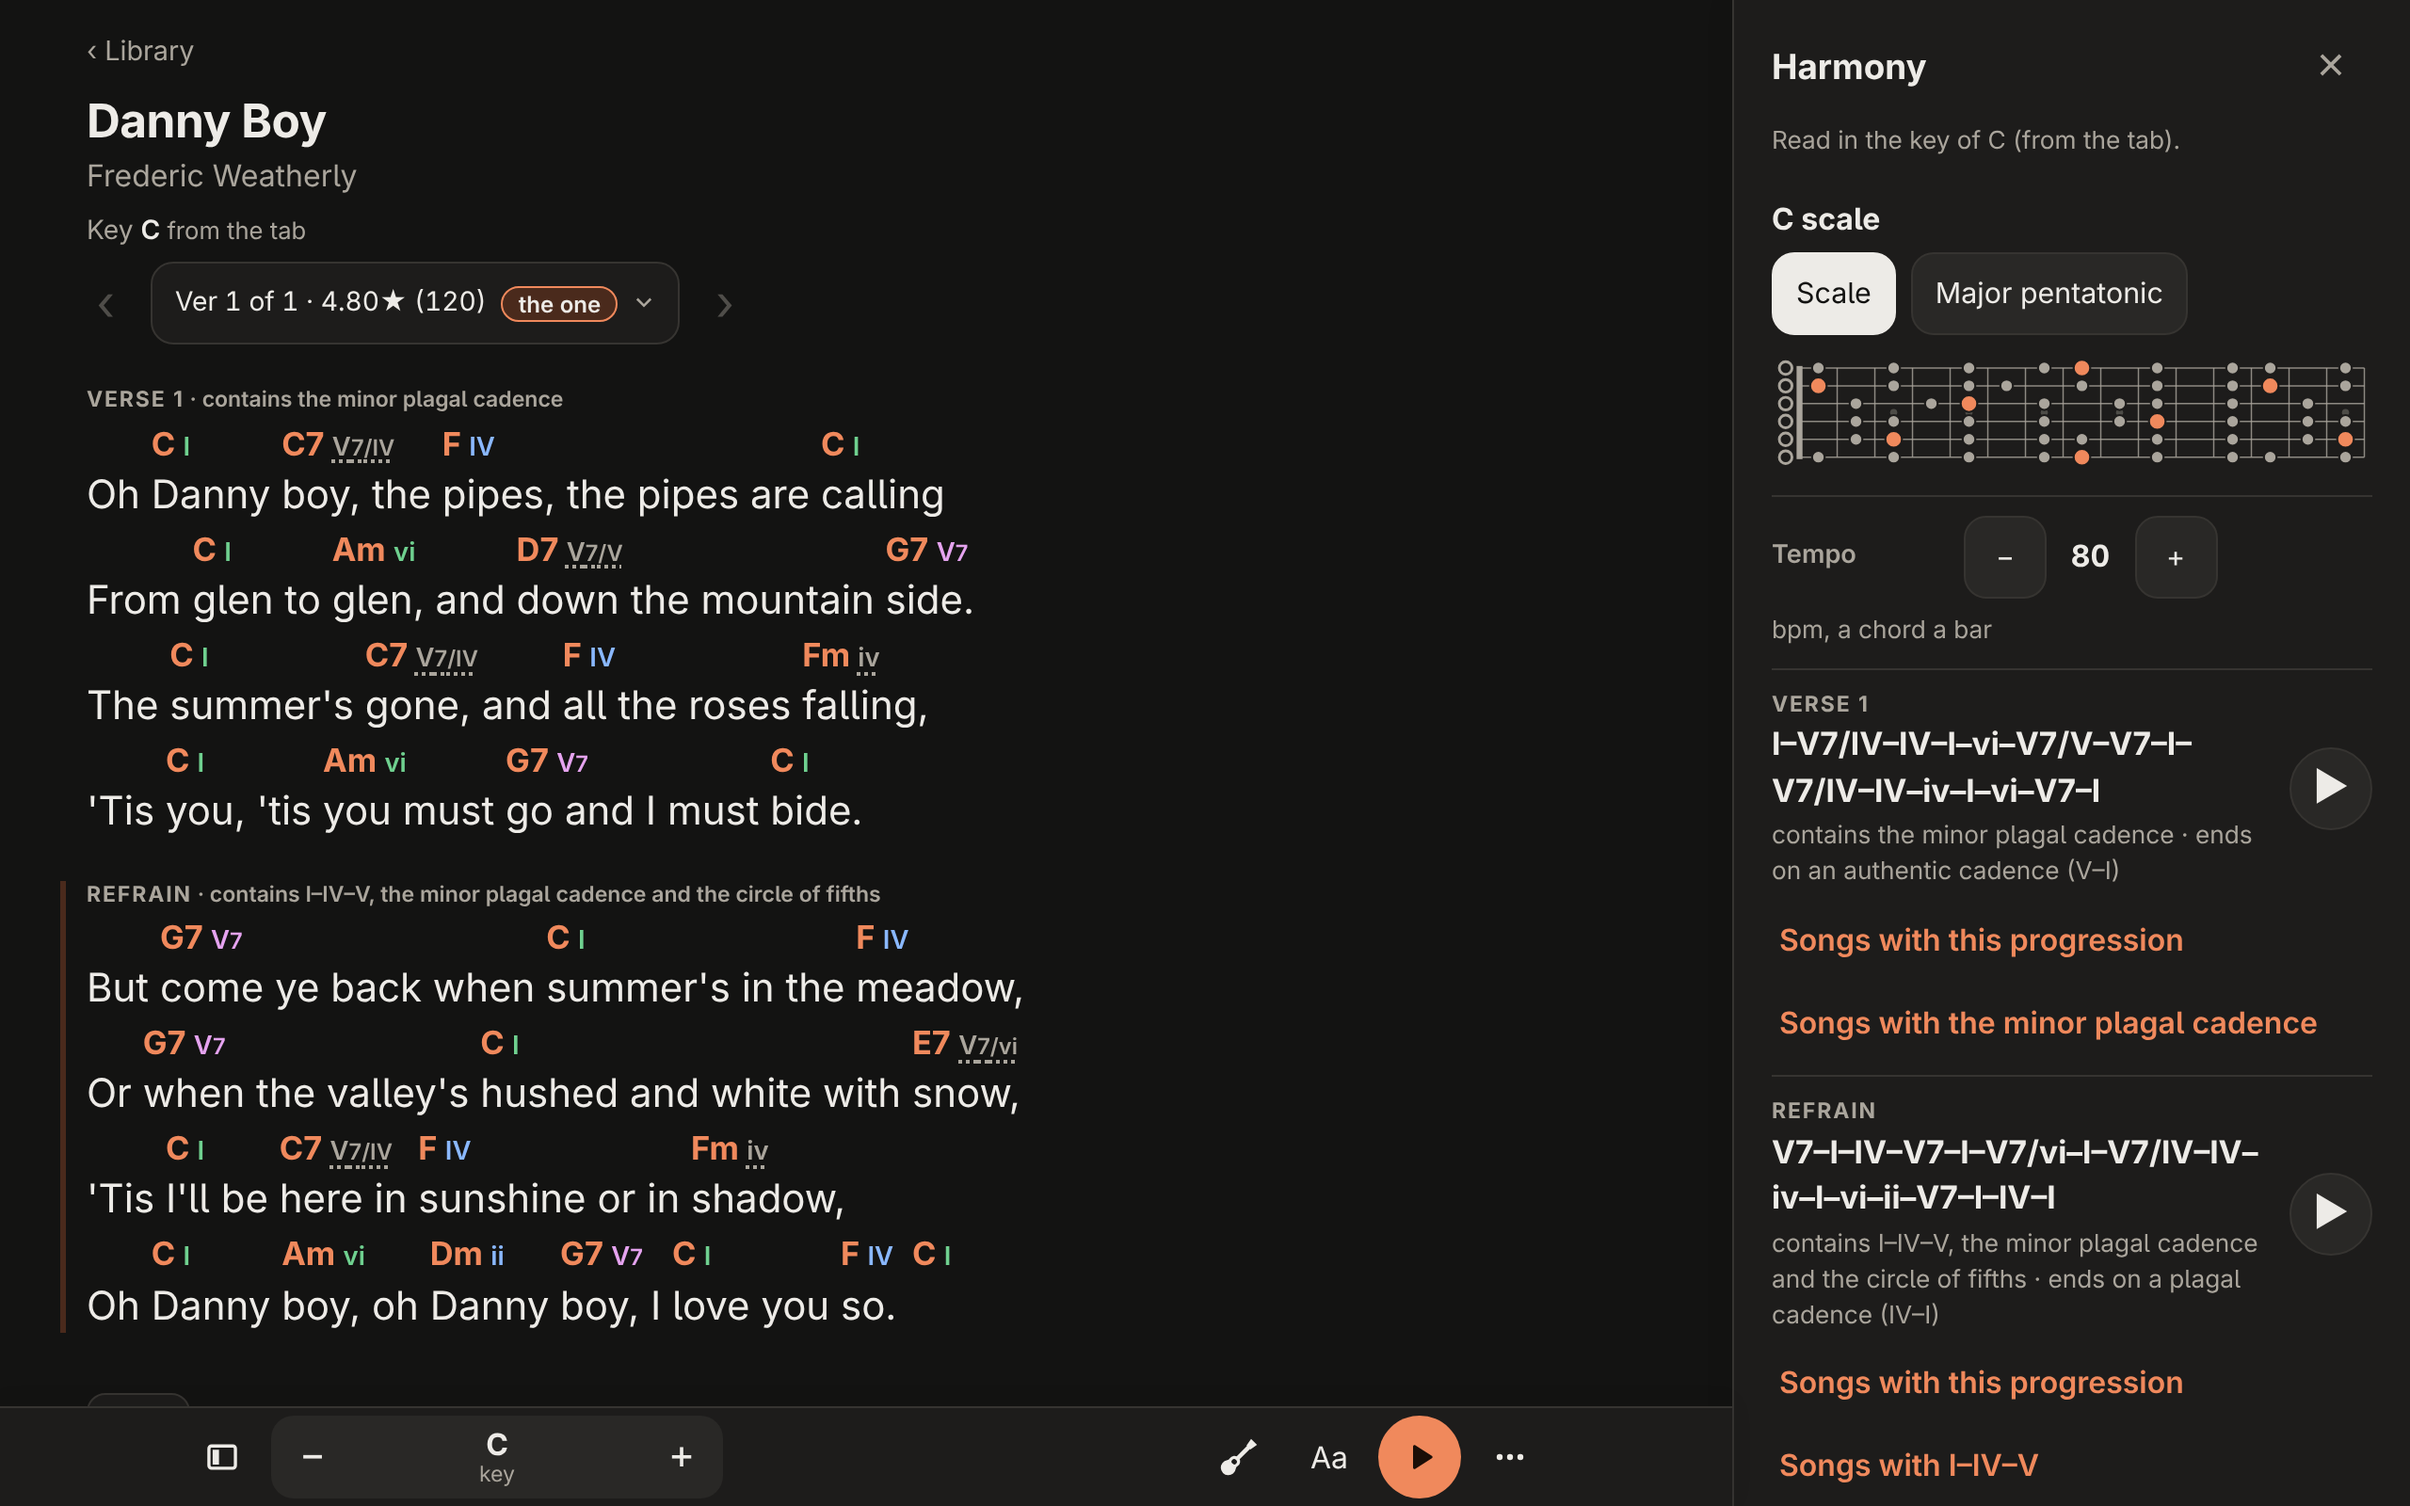
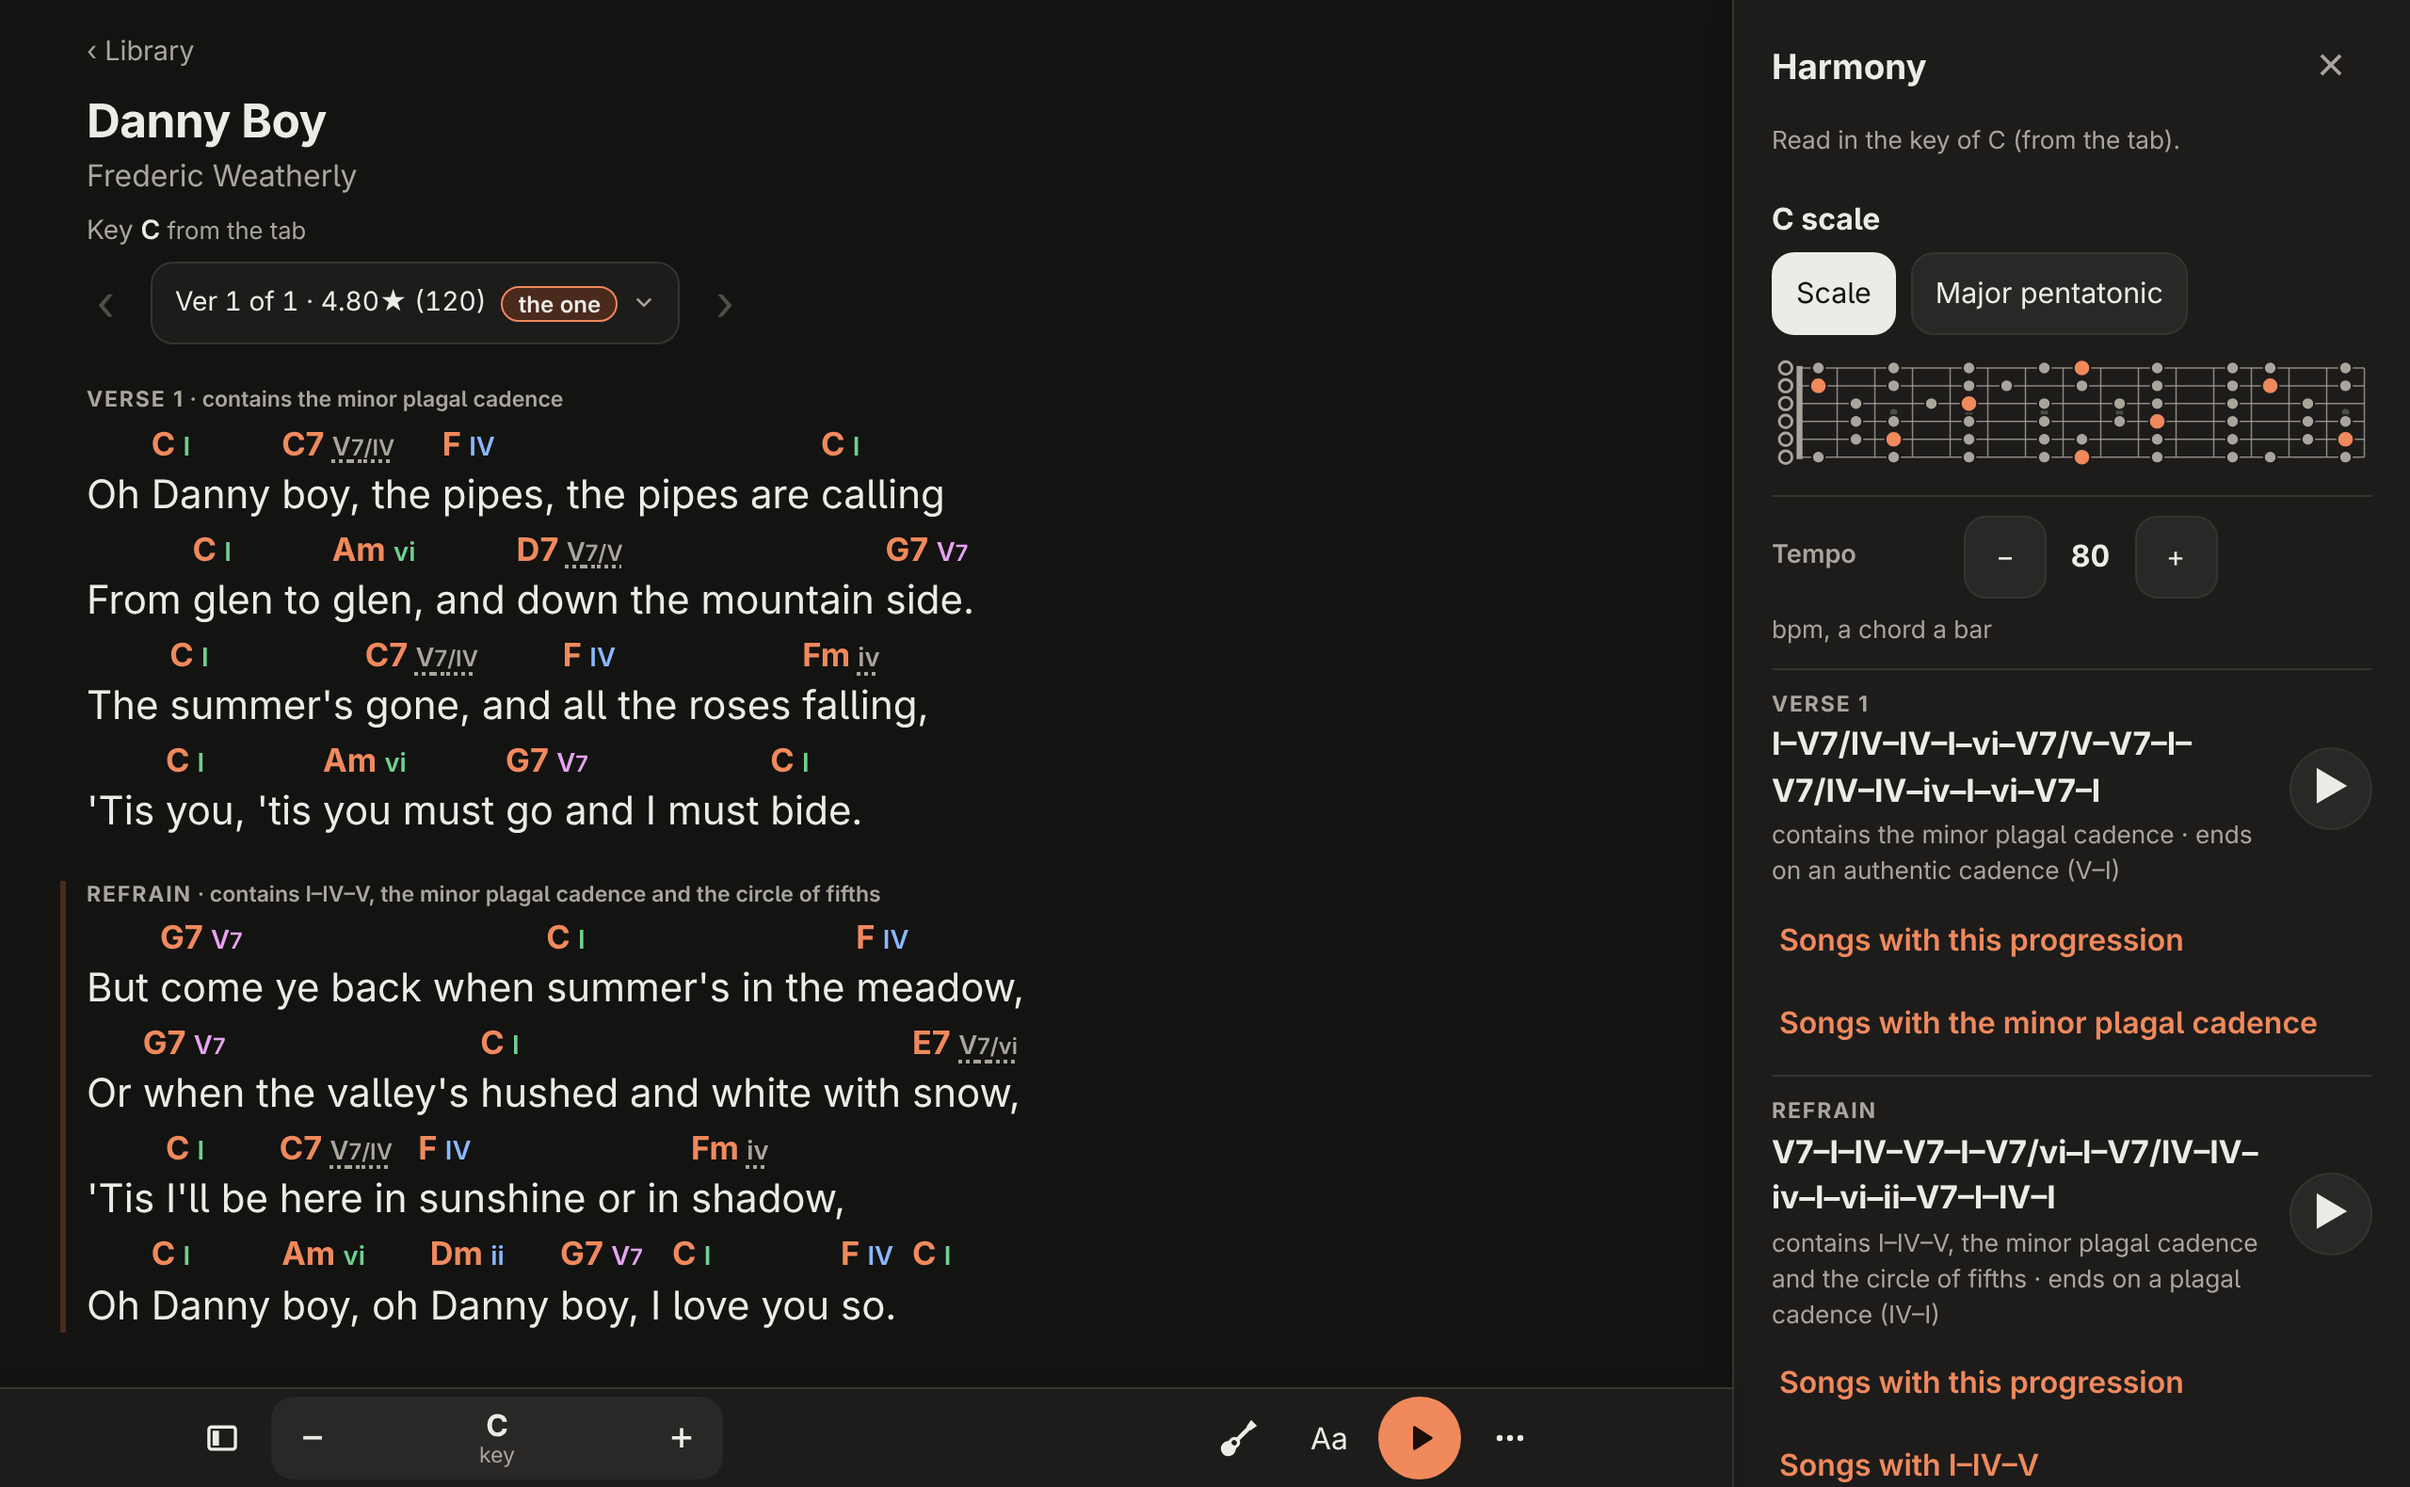
docs: a README with no sign-in, and screenshots taken the same every time
The README says caracole serve's page has no sign-in and belongs on a network you
trust, and names no token. Its politeness line says seconds apart (LRCLIB's pace is
1-2 s), and that YouTube is the one site whose robots.txt it goes against, within
its own budget and pauses and with a switch to turn it off. The quick start adds a
song any index files under its artist.

make.py takes every picture within the screen: captured beyond it, Chromium resized
the page, and the Songbooks tab redrew for its width, closing the key editor. It
blurs the Key menu before the picture, checks each shot's last wait still holds once
taken, and gives the Harmony panel a shorter screen, so no button shows above the bar.

diff --git a/docs/screenshots/make.py b/docs/screenshots/make.py
@@ -392,6 +392,7 @@ def serve(cfg, port: int = 0):
 # --- the pictures -----------------------------------------------------------------------------------------------
 
 DESKTOP = (1280, 800, False)  # width, height in CSS pixels, a phone's screen
+SHORTER = (1280, 790, False)  # the foot's PDF button under the bar, and the Harmony panel cut between two links
 PHONE = (390, 844, True)
 SETTLED = ("document.readyState === 'complete' && document.fonts.status === 'loaded'"
            " && document.getAnimations().every((a) => a.playState !== 'running')")
@@ -413,7 +414,8 @@ def below(selector: str, margin: int = 24) -> str:
 
 # Each picture: its file's name, its address on the server, the screen, then what is done before it is taken, in
 # order ("wait" an expression, "click" a selector, "type" text into the focused field, "js" an expression), and
-# its clip (JavaScript for [x, y, width, height] in CSS pixels; None: the screen whole).
+# its clip (JavaScript for [x, y, width, height] in CSS pixels, within the screen; None: the screen whole). The last
+# "wait" must still hold once the picture is taken, or the script stops: a picture that missed it is never written.
 SHOTS = (
     ("library", "", DESKTOP, (
         ("wait", "document.getElementById('q') !== null"),
@@ -430,7 +432,7 @@ SHOTS = (
         ("wait", "!document.getElementById('panel').hidden"),
         ("js", "document.activeElement.blur()"),
     ), None),
-    ("harmony", "Frederic%20Weatherly/Danny%20Boy/sheet.html#nm=both&necks=0", DESKTOP, (
+    ("harmony", "Frederic%20Weatherly/Danny%20Boy/sheet.html#nm=both&necks=0", SHORTER, (
         ("wait", "document.querySelector('#sheet .c') !== null"),
         ("click", "#more"),
         ("click", "#harmony-open"),
@@ -451,6 +453,7 @@ SHOTS = (
         ("wait", "document.querySelector('#songbooks button.plays.set') !== null"),
         ("js", "document.querySelector('#songbooks button.plays.set').id = 'chip'"),  # Amazing Grace, set in A
         ("click", "#chip"),  # its key, mode and capo, open
+        ("js", "document.activeElement.blur()"),  # no focus ring on its Key menu
         ("wait", "document.querySelector('#songbooks .set-line.editing select') !== null"),
     ), below("#songbooks article.book")),
     ("guitar-pro", "guitar?file=Traditional%2FGreensleeves%2Fguitar-1.gp", DESKTOP, (
@@ -488,8 +491,15 @@ def take(url: str, out: Path, profile: Path, cfg) -> list[Path]:
             if not b.wait(SETTLED, timeout=30):
                 sys.exit(f"{name}: the page never settled")
             x, y, w, h = b.js(clip) if clip else (0, 0, width, height)
-            shot = b.send("Page.captureScreenshot", format="png", captureBeyondViewport=clip is not None,
+            if x < 0 or y < 0 or x + w > width or y + h > height:
+                sys.exit(f"{name}: the clip {[x, y, w, h]} goes past the screen, {width} × {height}")
+            # Never beyond the screen: Chromium would resize it for the picture, and a page that redraws for its
+            # width (the Songbooks tab, closing the key editor) would come out in another state.
+            shot = b.send("Page.captureScreenshot", format="png", captureBeyondViewport=False,
                           clip={"x": x, "y": y, "width": w, "height": h, "scale": 1})
+            last = [what for do, what in steps if do == "wait"][-1]
+            if not b.js(last):
+                sys.exit(f"{name}: the page left {last} while its picture was taken")
         path = out / f"{name}.png"
         path.write_bytes(base64.b64decode(shot["data"]))
         written.append(path)

diff --git a/README.md b/README.md
@@ -45,26 +45,29 @@ The pictures show a demo library of public-domain songs, which
 
 ```sh
 nix shell github:Danielhp95/caracole            # x86_64-linux; or see docs/install.md
-caracole add "Traditional - Scarborough Fair"   # a line of ~/Tabs/wanted.txt
+caracole add "Oasis - Wonderwall"               # "Artist - Title": a line of ~/Tabs/wanted.txt
 caracole index build                            # once: Ultimate Guitar's sitemaps, about 10 minutes
 caracole run                                    # what the nightly run does, now
 caracole serve                                  # the library at http://127.0.0.1:8737/
 ```
 
 The library is the folder `~/Tabs`. No settings are needed to start; they go in
-`~/.config/caracole/caracole.toml`, and `caracole serve --address` with
-`--token-file` serves your network.
+`~/.config/caracole/caracole.toml`. `caracole serve --address` serves your network:
+the page has no sign-in, so keep it on a network you trust (your LAN or tailnet).
 
-- [docs/install.md](docs/install.md): NixOS, Ubuntu with or without Nix, and from source.
+- [docs/install.md](docs/install.md): installing it.
 - [docs/usage.md](docs/usage.md): every command, setting and file.
 - [docs/deploy.md](docs/deploy.md): running it on a server.
 
-caracole is gentle with the sites it reads: one request at a time, 10 to 20
-seconds apart at night, within a small budget, never a page robots.txt closes,
-and a day's rest when a site pushes back ([how](docs/usage.md#caracole-run)). The one exception is
-YouTube, which only the auto-chords package uses, for the audio of songs nobody
-has charted ([why](docs/usage.md#audio-from-youtube)). Keep your library private:
-the sheets and lyrics are other people's work.
+caracole is gentle with the sites it reads: one request at a time, seconds apart,
+within a small budget, never a page robots.txt closes, and at least a day's rest
+when a site pushes back ([how](docs/usage.md#caracole-run)). The one site whose
+robots.txt it goes against is YouTube, against its terms too: only the auto-chords
+package takes audio there, for a few songs nobody has charted, within its own
+budget and pauses, resting after a block like any site, and
+`[providers.youtube] enabled = false` turns it off
+([why](docs/usage.md#audio-from-youtube)). Keep your library private: the sheets
+and lyrics are other people's work.
 
 ## Development
 
